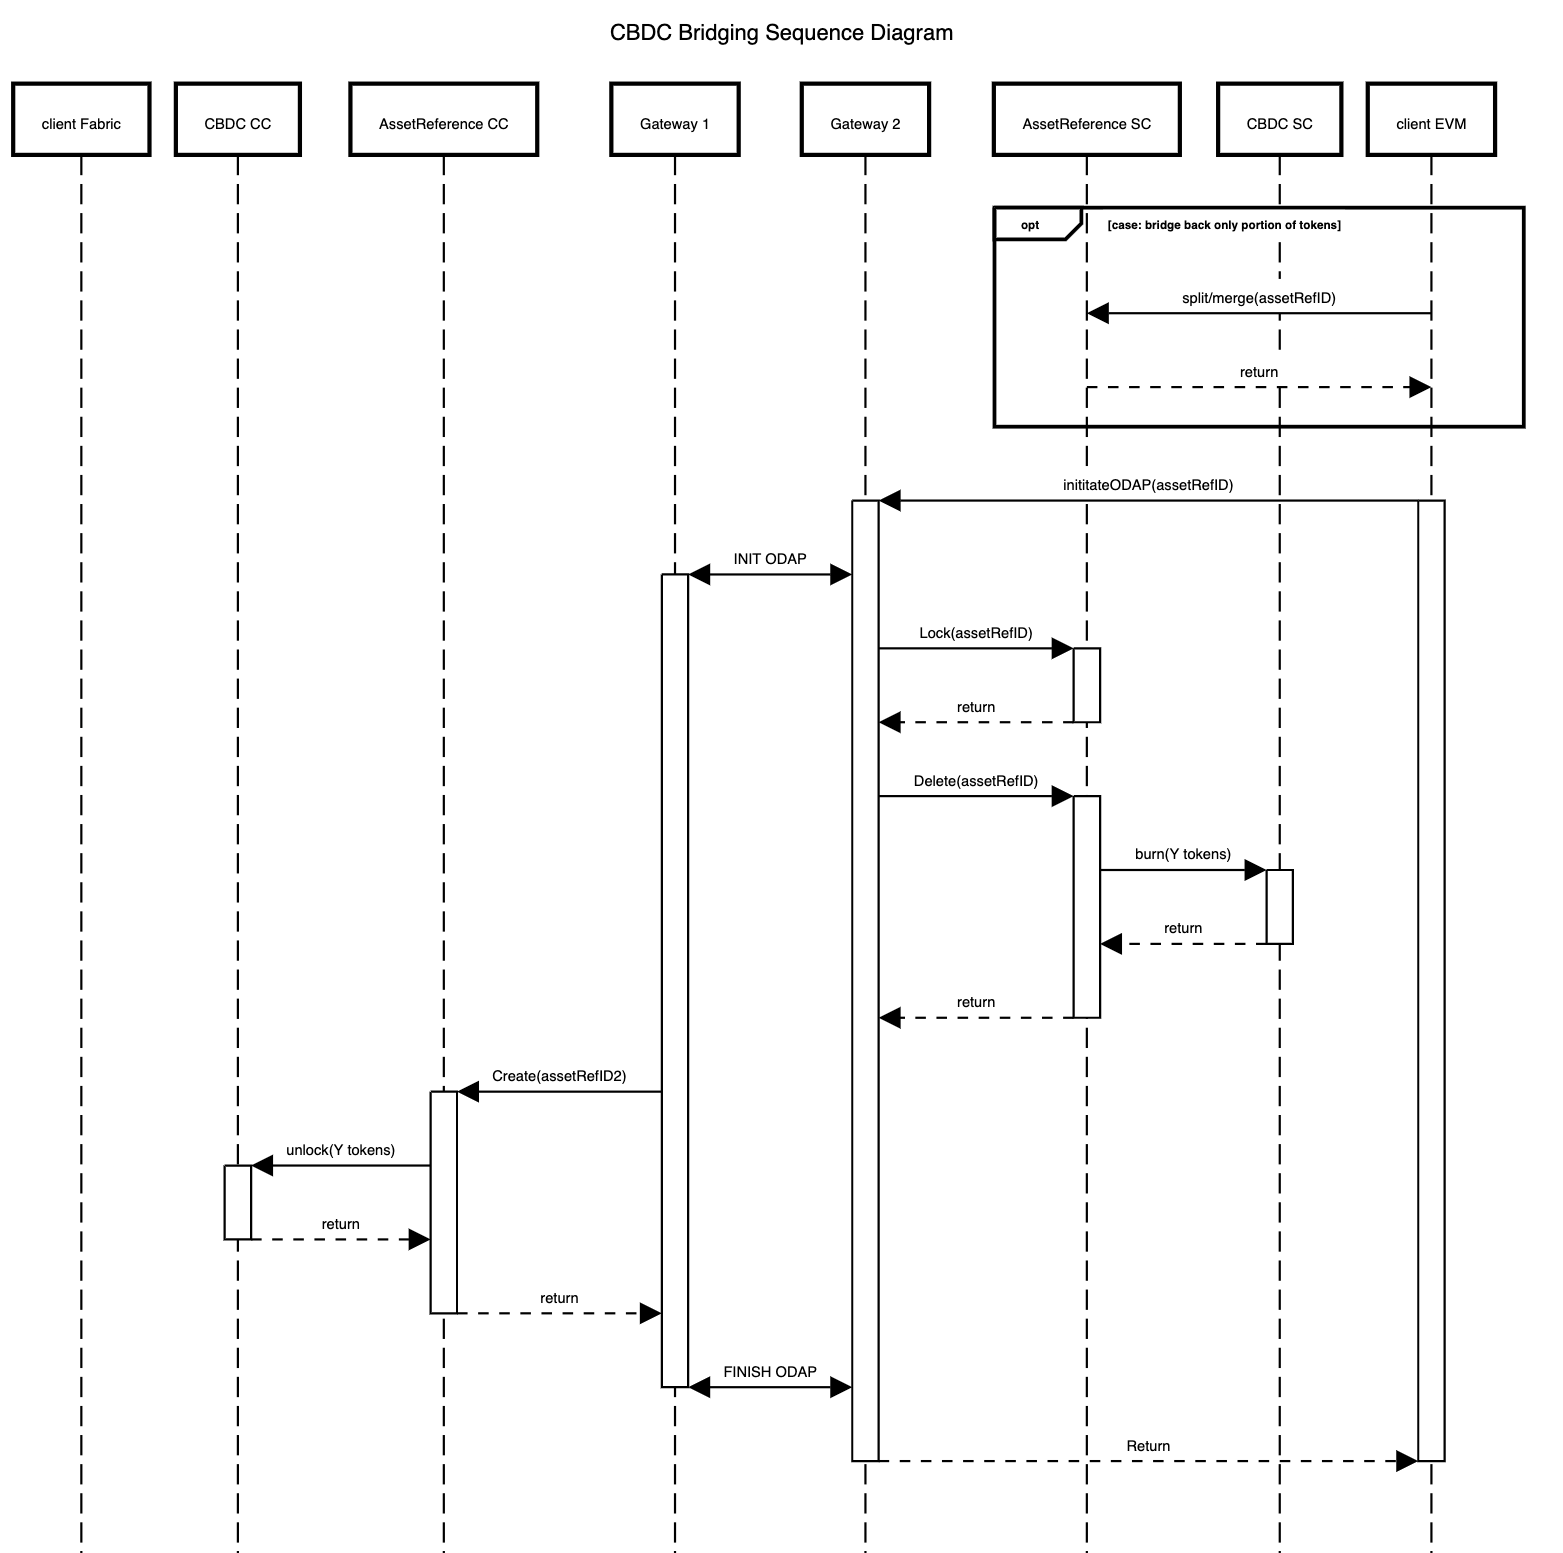
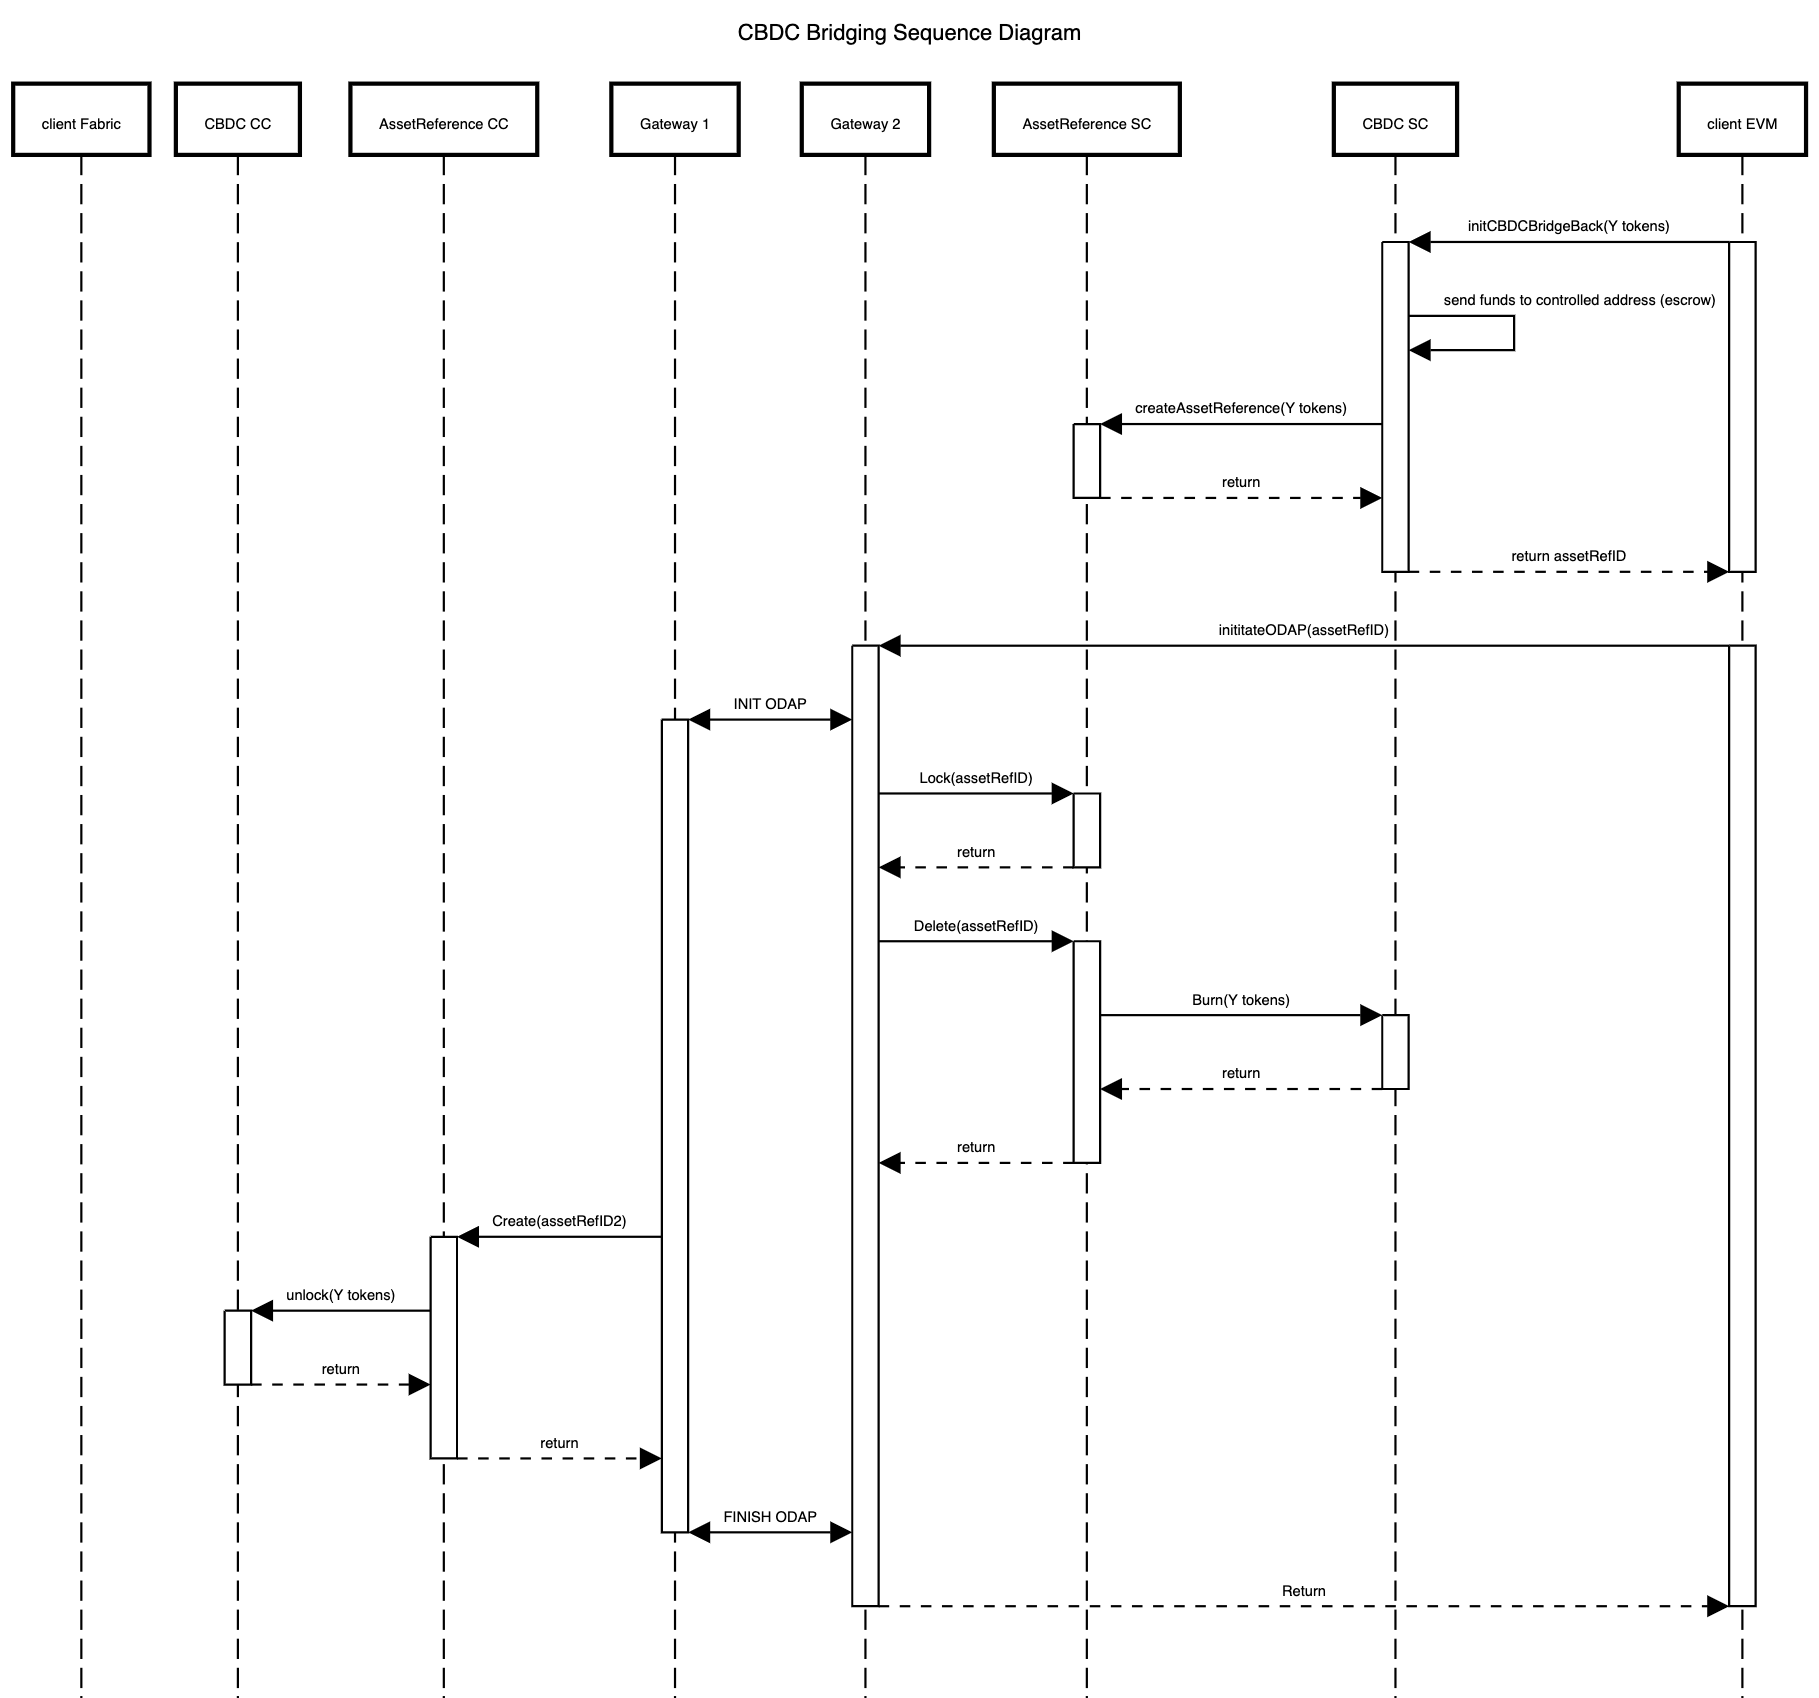
add bridge example image and update besu->fabric sequence diagram

diff --git a/Documentation/implementation-details.md b/Documentation/implementation-details.md
@@ -50,6 +50,14 @@ Gateway connected to a Hyperledger Fabric network, which has read and write perm
 ### GATEWAY 2
 Gateway connected to a Hyperledger Besu network, which has read and write permissions in the network (where the smart contracts are deployed).
 
+## Example
+
+The following image depicts the interaction of three different parties (A, B, and the bridging entity) bridging some CBDC.
+
+<p align="center">
+  <img src="images/bridge-flow.png" width="100%" />
+</p>
+
 ## Ethereum addresses
 
 An address in Ethereum is a 42-character hexadecimal address derived from the last 20 bytes of the public key controlling the account. To access the funds in an ethereum address, one needs to have access to its private key.
